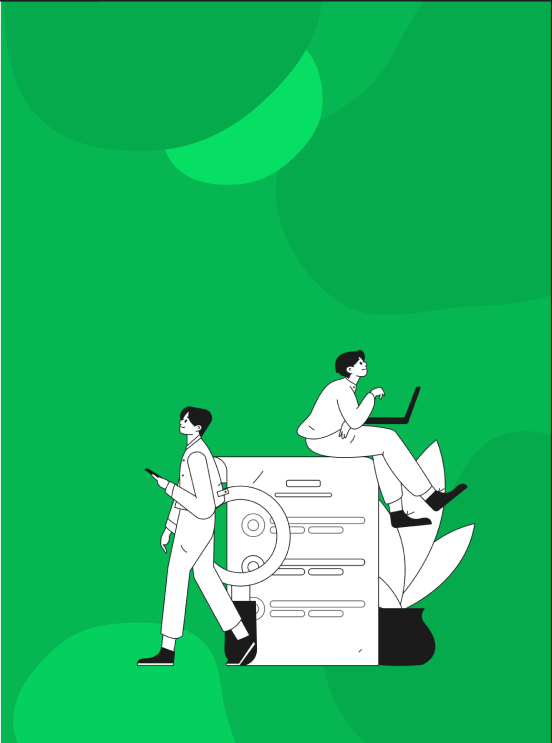
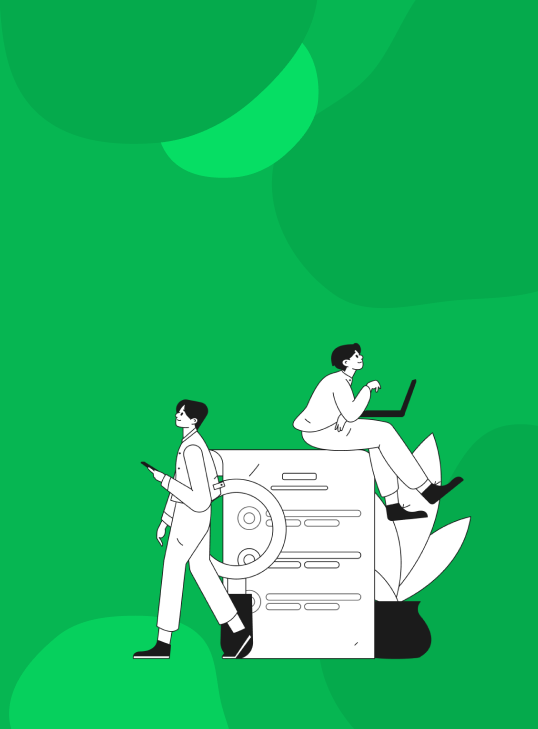
some changes on frontend

diff --git a/frontend/mcq_2025/src/student/login.tsx b/frontend/mcq_2025/src/student/login.tsx
@@ -7,7 +7,6 @@ const StudentLogin: React.FC = () => {
   };
 
   return (
-    <section className="min-h-screen bg-slate-100 px-4 py-10 text-slate-900 md:py-16">
       <div className="mx-auto grid w-full max-w-5xl min-h-[540px] overflow-hidden rounded-[32px] bg-white shadow-[0_20px_60px_rgba(15,47,33,0.12)] md:grid-cols-2">
         <div className="flex flex-col justify-center gap-10 px-6 py-10 md:px-14 md:py-16">
           <div>
@@ -66,16 +65,10 @@ const StudentLogin: React.FC = () => {
 
         <div
           aria-hidden="true"
-          className="relative hidden min-h-[540px] md:block"
-          style={{
-            backgroundImage:
-              "radial-gradient(circle at 20% 20%, #55f28b 0%, rgba(85, 242, 139, 0) 50%), radial-gradient(circle at 80% 30%, #08b853 0%, rgba(8, 184, 83, 0) 45%), linear-gradient(180deg, #03a045 0%, #05c658 100%)",
-          }}
-        >
-          <div className="absolute inset-12 bg-[url('/studentlogin.png')] bg-contain bg-bottom bg-no-repeat" />
+          className="relative hidden min-h-[540px] md:block">
+          <div className="absolute inset-15 bg-[url('/studentlogin.png')] bg-contain bg-bottom bg-no-repeat" />
         </div>
       </div>
-    </section>
   );
 };
 

diff --git a/frontend/mcq_2025/src/student/signup.tsx b/frontend/mcq_2025/src/student/signup.tsx
@@ -24,7 +24,6 @@ const StudentSignup: React.FC = () => {
   };
 
   return (
-    <section className="min-h-screen bg-slate-100 px-4 py-10 text-slate-900 md:py-16">
       <div className="mx-auto grid w-full max-w-5xl min-h-[540px] overflow-hidden rounded-[32px] bg-white shadow-[0_20px_60px_rgba(15,47,33,0.12)] md:grid-cols-2">
         <div className="flex flex-col justify-center gap-10 px-6 py-10 md:px-14 md:py-16">
           <div>
@@ -133,16 +132,10 @@ const StudentSignup: React.FC = () => {
 
         <div
           aria-hidden="true"
-          className="relative hidden min-h-[540px] md:block"
-          style={{
-            backgroundImage:
-              "radial-gradient(circle at 20% 20%, #55f28b 0%, rgba(85, 242, 139, 0) 50%), radial-gradient(circle at 80% 30%, #08b853 0%, rgba(8, 184, 83, 0) 45%), linear-gradient(180deg, #03a045 0%, #05c658 100%)",
-          }}
-        >
+          className="relative hidden min-h-[540px] md:block">
           <div className="absolute inset-12 bg-[url('/studentlogin.png')] bg-contain bg-bottom bg-no-repeat" />
         </div>
       </div>
-    </section>
   );
 };
 

diff --git a/frontend/mcq_2025/src/styles.css b/frontend/mcq_2025/src/styles.css
@@ -3,6 +3,7 @@
 :root {
   font-family: "Poppins", "Segoe UI", system-ui, -apple-system, sans-serif;
   color: #111;
-  background-color: #f2f5f7;
+  background-color: #ffff
+  ;
 }
 
